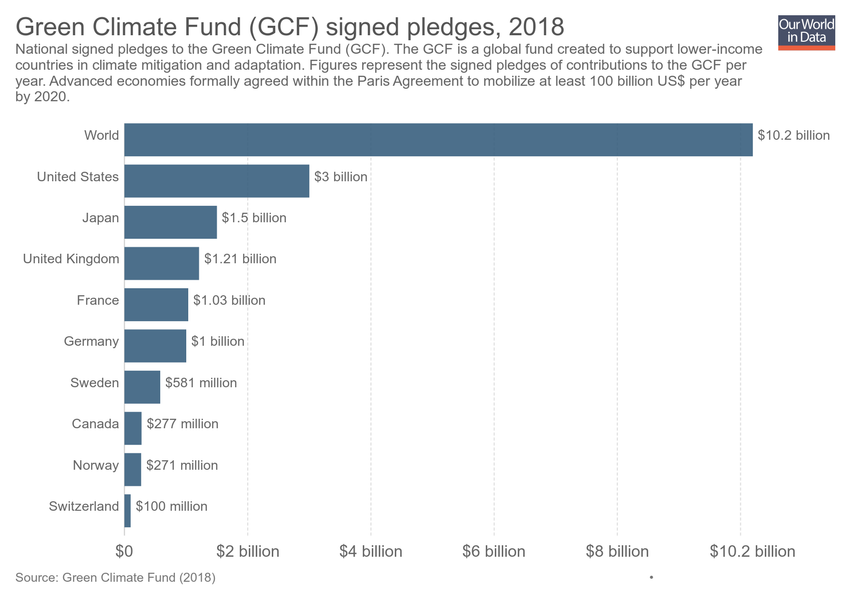
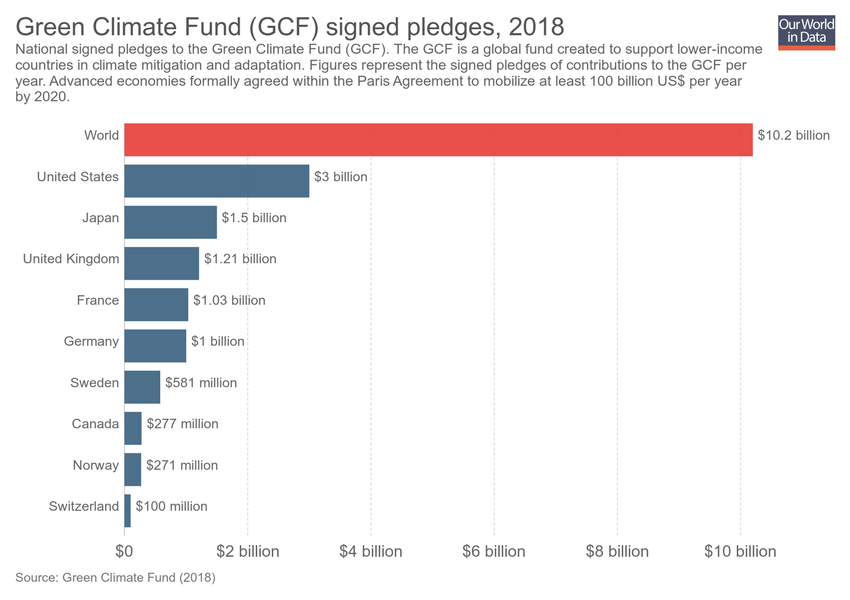
Updating chart green-climate-gcf-fund-pledges

Changed region(s): [[0.1224, 0.18, 0.8871, 0.27], [0.8259, 0.9, 0.9482, 0.93]]

diff --git a/grapher/green-climate-gcf-fund-pledges.html b/grapher/green-climate-gcf-fund-pledges.html
@@ -1,4 +1,4 @@
-<!doctype html><html><head><meta name="viewport" content="width=device-width, initial-scale=1" /><title>Green Climate Fund (GCF) signed pledges - Our World in Data</title><meta name="description" content="National signed pledges to the Green Climate Fund (GCF). The GCF is a global fund created to support lower-income countries in climate mitigation and adaptation. Figures represent the signed pledges of contributions to the GCF per year. Advanced economies formally agreed within the Paris Agreement to mobilize at least 100 billion US$ per year by 2020." /><link rel="canonical" href="https://ourworldindata.org/grapher/green-climate-gcf-fund-pledges" /><meta property="fb:app_id" content="1149943818390250" /><meta property="og:url" content="https://ourworldindata.org/grapher/green-climate-gcf-fund-pledges" /><meta property="og:title" content="Green Climate Fund (GCF) signed pledges" /><meta property="og:description" content="National signed pledges to the Green Climate Fund (GCF). The GCF is a global fund created to support lower-income countries in climate mitigation and adaptation. Figures represent the signed pledges of contributions to the GCF per year. Advanced economies formally agreed within the Paris Agreement to mobilize at least 100 billion US$ per year by 2020." /><meta property="og:image" content="https://ourworldindata.org/grapher/exports/green-climate-gcf-fund-pledges.png?v=3" /><meta property="og:image:width" content="850" /><meta property="og:image:height" content="600" /><meta property="og:site_name" content="Our World in Data" /><meta name="twitter:card" content="summary_large_image" /><meta name="twitter:site" content="@OurWorldInData" /><meta name="twitter:creator" content="@OurWorldInData" /><meta name="twitter:title" content="Green Climate Fund (GCF) signed pledges" /><meta name="twitter:description" content="National signed pledges to the Green Climate Fund (GCF). The GCF is a global fund created to support lower-income countries in climate mitigation and adaptation. Figures represent the signed pledges of contributions to the GCF per year. Advanced economies formally agreed within the Paris Agreement to mobilize at least 100 billion US$ per year by 2020." /><meta name="twitter:image" content="https://ourworldindata.org/grapher/exports/green-climate-gcf-fund-pledges.png?v=3" /><style>
+<!doctype html><html><head><meta name="viewport" content="width=device-width, initial-scale=1" /><title>Green Climate Fund (GCF) signed pledges - Our World in Data</title><meta name="description" content="National signed pledges to the Green Climate Fund (GCF). The GCF is a global fund created to support lower-income countries in climate mitigation and adaptation. Figures represent the signed pledges of contributions to the GCF per year. Advanced economies formally agreed within the Paris Agreement to mobilize at least 100 billion US$ per year by 2020." /><link rel="canonical" href="https://ourworldindata.org/grapher/green-climate-gcf-fund-pledges" /><meta property="fb:app_id" content="1149943818390250" /><meta property="og:url" content="https://ourworldindata.org/grapher/green-climate-gcf-fund-pledges" /><meta property="og:title" content="Green Climate Fund (GCF) signed pledges" /><meta property="og:description" content="National signed pledges to the Green Climate Fund (GCF). The GCF is a global fund created to support lower-income countries in climate mitigation and adaptation. Figures represent the signed pledges of contributions to the GCF per year. Advanced economies formally agreed within the Paris Agreement to mobilize at least 100 billion US$ per year by 2020." /><meta property="og:image" content="https://ourworldindata.org/grapher/exports/green-climate-gcf-fund-pledges.png?v=5" /><meta property="og:image:width" content="850" /><meta property="og:image:height" content="600" /><meta property="og:site_name" content="Our World in Data" /><meta name="twitter:card" content="summary_large_image" /><meta name="twitter:site" content="@OurWorldInData" /><meta name="twitter:creator" content="@OurWorldInData" /><meta name="twitter:title" content="Green Climate Fund (GCF) signed pledges" /><meta name="twitter:description" content="National signed pledges to the Green Climate Fund (GCF). The GCF is a global fund created to support lower-income countries in climate mitigation and adaptation. Figures represent the signed pledges of contributions to the GCF per year. Advanced economies formally agreed within the Paris Agreement to mobilize at least 100 billion US$ per year by 2020." /><meta name="twitter:image" content="https://ourworldindata.org/grapher/exports/green-climate-gcf-fund-pledges.png?v=5" /><style>
         html, body {
             height: 100%;
             margin: 0;
@@ -20,8 +20,8 @@
         }
     </style><noscript><style>
                     figure { display: none !important; }
-                </style></noscript><link rel="stylesheet" href="https://ourworldindata.org/grapher/assets/commons.bundle.ff5b28f1e0b274128107.css" /><link rel="preload" href="/grapher/data/variables/97543.json?v=3" as="fetch" crossorigin /></head><body class="singleChart"><figure data-grapher-src="/grapher/green-climate-gcf-fund-pledges"></figure><noscript id="fallback"><img src="/grapher/exports/green-climate-gcf-fund-pledges.svg" /><p>Interactive visualization requires JavaScript</p></noscript><script src="https://cdn.polyfill.io/v2/polyfill.min.js?features=es6,fetch"></script><script src="https://ourworldindata.org/grapher/assets/commons.bundle.ff5b28f1e0b274128107.js"></script><script src="https://ourworldindata.org/grapher/assets/charts.bundle.ff5b28f1e0b274128107.js"></script><script>
-        var jsonConfig = {"id":2759,"map":{"projection":"World","variableId":97543,"equalSizeBins":true,"baseColorScheme":"YlGnBu","isManualBuckets":true,"colorSchemeLabels":[],"colorSchemeValues":[10000000,50000000,100000000,500000000,1000000000,5000000000],"customNumericColors":[null],"customCategoryColors":{},"customCategoryLabels":{},"customHiddenCategories":{}},"tab":"chart","slug":"green-climate-gcf-fund-pledges","type":"DiscreteBar","title":"Green Climate Fund (GCF) signed pledges","xAxis":{"scaleType":"linear"},"yAxis":{"min":0,"scaleType":"linear"},"version":3,"subtitle":"National signed pledges to the Green Climate Fund (GCF). The GCF is a global fund created to support lower-income countries in climate mitigation and adaptation. Figures represent the signed pledges of contributions to the GCF per year. Advanced economies formally agreed within the Paris Agreement to mobilize at least 100 billion US$ per year by 2020.","hasMapTab":true,"stackMode":"absolute","dimensions":[{"display":{"unit":"US$ per year","shortUnit":"$","conversionFactor":1000000},"property":"y","variableId":97543}],"sourceDesc":"Green Climate Fund (2018)","hasChartTab":true,"isPublished":true,"selectedData":[{"index":0,"entityId":44},{"index":0,"entityId":355},{"index":0,"entityId":13},{"index":0,"entityId":1},{"index":0,"entityId":6},{"index":0,"entityId":3},{"index":0,"entityId":102},{"index":0,"entityId":7},{"index":0,"entityId":10},{"index":0,"entityId":14}],"addCountryMode":"add-country"};
+                </style></noscript><link rel="stylesheet" href="https://ourworldindata.org/grapher/assets/commons.bundle.ff5b28f1e0b274128107.css" /><link rel="preload" href="/grapher/data/variables/97543.json?v=5" as="fetch" crossorigin /></head><body class="singleChart"><figure data-grapher-src="/grapher/green-climate-gcf-fund-pledges"></figure><noscript id="fallback"><img src="/grapher/exports/green-climate-gcf-fund-pledges.svg" /><p>Interactive visualization requires JavaScript</p></noscript><script src="https://cdn.polyfill.io/v2/polyfill.min.js?features=es6,fetch"></script><script src="https://ourworldindata.org/grapher/assets/commons.bundle.ff5b28f1e0b274128107.js"></script><script src="https://ourworldindata.org/grapher/assets/charts.bundle.ff5b28f1e0b274128107.js"></script><script>
+        var jsonConfig = {"id":2759,"map":{"projection":"World","variableId":97543,"equalSizeBins":true,"baseColorScheme":"YlGnBu","isManualBuckets":true,"colorSchemeLabels":[],"colorSchemeValues":[10000000,50000000,100000000,500000000,1000000000,5000000000],"customNumericColors":[null],"customCategoryColors":{},"customCategoryLabels":{},"customHiddenCategories":{}},"tab":"chart","slug":"green-climate-gcf-fund-pledges","type":"DiscreteBar","title":"Green Climate Fund (GCF) signed pledges","xAxis":{"scaleType":"linear"},"yAxis":{"min":0,"scaleType":"linear"},"version":5,"subtitle":"National signed pledges to the Green Climate Fund (GCF). The GCF is a global fund created to support lower-income countries in climate mitigation and adaptation. Figures represent the signed pledges of contributions to the GCF per year. Advanced economies formally agreed within the Paris Agreement to mobilize at least 100 billion US$ per year by 2020.","hasMapTab":true,"stackMode":"absolute","dimensions":[{"display":{"unit":"US$ per year","shortUnit":"$","conversionFactor":1000000},"property":"y","variableId":97543}],"sourceDesc":"Green Climate Fund (2018)","hasChartTab":true,"isPublished":true,"selectedData":[{"index":0,"entityId":44},{"color":"#e6332e","index":0,"entityId":355},{"index":0,"entityId":13},{"index":0,"entityId":1},{"index":0,"entityId":6},{"index":0,"entityId":3},{"index":0,"entityId":102},{"index":0,"entityId":7},{"index":0,"entityId":10},{"index":0,"entityId":14}],"addCountryMode":"add-country"};
         var figure = document.getElementsByTagName("figure")[0];
         try {
             window.App = {};
